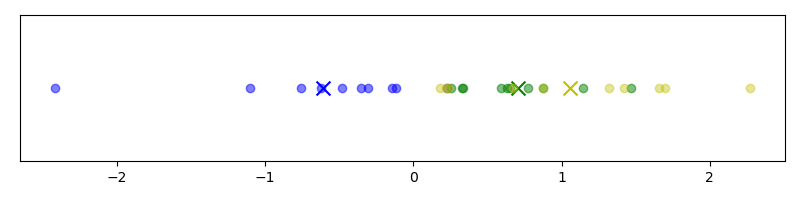
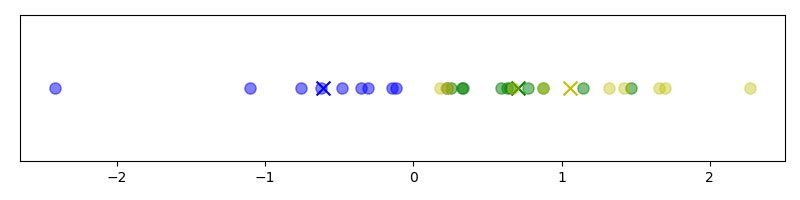
Update blog text

diff --git a/assets/code/t-digest/tdigest.py b/assets/code/t-digest/tdigest.py
@@ -384,13 +384,13 @@ def plot_weakly_ordered_cluster():
   # plt.subplot(3,1,2)
   plt.figure(figsize=(8,2))
   x = np.sort(np.random.randn(20))
-  plt.scatter(x[:10], np.zeros_like(x[:10]), color='b', alpha=0.5)
-  plt.scatter(x[10:], np.zeros_like(x[10:]), color='g', alpha=0.5)
+  plt.scatter(x[:10], np.zeros_like(x[:10]), color='b', alpha=0.5, s=65)
+  plt.scatter(x[10:], np.zeros_like(x[10:]), color='g', alpha=0.5, s=65)
   plt.scatter(np.mean(x[:10]), 0, color='b', s=100, marker="x")
   plt.scatter(np.mean(x[10:]), 0, color='g', s=100, marker="x")
 
   x = np.random.randn(10) + 1.5
-  plt.scatter(x, np.zeros_like(x), color='y', alpha=0.4)
+  plt.scatter(x, np.zeros_like(x), color='y', alpha=0.4, s=65)
   plt.scatter(np.mean(x), 0, color='y', s=100, marker="x")
   plt.yticks([])
 
@@ -462,8 +462,8 @@ if __name__ == "__main__":
   import imageio
 
   # clustering_with_scale_function_animation()
-  arbitrary_clustering_examples()
-  # plot_weakly_ordered_cluster()
+  # arbitrary_clustering_examples()
+  plot_weakly_ordered_cluster()
   # plot_scale_functions()
 
   # plot_cdf_examples()

diff --git a/_drafts/2021-05-09-tdigests.md b/_drafts/2021-05-09-tdigests.md
@@ -67,9 +67,9 @@ This strong ordering property can be observed visually in Figure 1. Note that al
     <figcaption>Figure 2</figcaption>
 </figure>
 
-One of the main contributions of the paper is a systematic way of choosing the boundaries of the clusters. The _t_-digest uses what the authors call a _scale function_ which maps a percentile to a real number, which they denote by $$k$$. This function is used to define a criteria for how many points should be allowed in each cluster (more on this later). 
+One of the main contributions of the paper is a systematic way of choosing the boundaries of the clusters. The _t_-digest uses what the authors call a _scale function_ which maps a percentile to a real number, which they denote by $$k$$. This function is used to define a criterion for how many points should be allowed in each cluster (more on this later). 
 
-When a cluster is created, the percentile of the first data point in the cluster is mapped to a $$k$$ value and saved. Points are continually added to the cluster (in sorted order) until enough points are added such that the $$k$$ value has increased by 1. At this point the cluster is considered complete and the centroid as well as its weight are stored and a new cluster is started.
+When a cluster is created, the percentile of the first data point in the cluster is mapped to a $$k$$ value and saved. Points are continually added to the cluster (in sorted order) until enough points are added such that the $$k$$ value has increased by 1. At this point, the cluster is considered complete and the centroid as well as its weight are stored and a new cluster is started.
 
 The cluster building process is shown in the animation in Figure 3. The crosses denote cluster centroids. Note how there are fewer points in the clusters at the extreme quantiles where the scale function is steeper.
 
@@ -145,11 +145,20 @@ Each scale function has a scale parameter $$\delta$$ which determines the number
 </figure>
 
 # Defining the _t_-digest
+The _t_-digest data structure is just a scale function along with a collection of cluster summaries (sorted by centroid). In order to be useful, the data structure also needs to support the following two operations: 
+
+1. Combine multiple existing _t_-digests into a single _t_-digest
+2. Compute arbitrary percentile estimates
+
+The following sections discuss each of these in more detail.
+
 ## Merging digests
-The previous section assumes that the data fits into memory (and there is enough memory to sort the data as well). In the scenario where each data file fits into memory, we can compute a _t_-digest per file. To get a single _t_-digest for the entire dataset, we can create a list of all the clusters from each _t_-digest and sort them by their centroids. The clusters are then merged in a greedy fashion by determining if the weight of the merged cluster (defined as the sum of the points in each cluster) leads to an increase in the $$k$$ value less than 1. If so, the two clusters can be replaced with a single merged one using the following code
+The preceeding sections outline the case when the data fits into memory (with some room left over to sort the data). In the scenario where each data file fits into memory, a single _t_-digest can be computed per file. To compute a single _t_-digest summarising the entire dataset, we can create a list of all the cluster summaries from each _t_-digest, sorted by their centroids. 
+
+The cluster summaries can then merged in a greedy fashion by determining if the weight of the merged cluster leads to an increase in the $$k$$ value less than 1. If so, the two clusters can be replaced with a single merged one using the following code
 
 {% highlight python %}
-def merge_clusters(c1, c2):
+def merge_cluster_summaries(c1, c2):
 
   w1 = c1.weight / (c1.weight + c2.weight)
   w2 = c2.weight / (c1.weight + c2.weight)
@@ -157,17 +166,21 @@ def merge_clusters(c1, c2):
   new_centroid = w1 * c1.centroid + w2 * c2.centroid
   new_weight = c1.weight + c2.weight
 
-  return Cluster(new_centroid, new_weight)
+  return ClusterSummary(new_centroid, new_weight)
 {% endhighlight %}
 
-For the most part, this algorithm is the same as the in-memory case where instead of adding points to a cluster, clusters are added to larger clusters. There is one important distinction however. 
+For the most part, this algorithm is the same as the in-memory case. The only difference is that instead of adding points to a cluster, clusters are added to larger clusters. 
 
-The clusters in-memory were guaranteed to be strongly ordered, by construction. That is, a cluster with a centroid to the left of another cluster's centroid must have every data point less than that of the other cluster. After merging centroids, this property no longer holds.  The consequence of this is error in the estimation of the percentiles.
+Recall that the cluster summaries created from in-memory data were guaranteed to be strongly ordered, by construction. That is, a cluster with a centroid to the left of another cluster's centroid must have every data point less than that of the other cluster. Unfortunately when merging cluster summaries, this property is no longer guaranteed to hold.  The consequence of this is error in the estimation of the percentiles.
 
 ## Percentile Estimation
-With the _t_-digest defined as well as methods for combining existing digests, the natural question is how to estimate an arbitrary percentile. In keeping only the centroids, along with the number of points, it is clear there is no way to get an exact answer to this question.
+With the _t_-digest defined as well as methods for combining existing digests, the natural question is, "how can a _t_-digeset be used to estimate an arbitrary percentile". In keeping only the centroids, along with the number of points, it is clear that there is no way to get an exact answer to this question.
 
-The assumption made for the purposes of computing percentiles from a _t_-digest is that the centroid is not just the mean of the data in the cluster but the _median_ as well. Stated another way, the assumption is that if there are $$N$$ data points in a cluster, $$N/2$$ will be to the left of the centroid and $$N/2$$ will be to the right. It is easy to find examples where this assumption is clearly false. In practice, the $$\delta$$ parameter can be tuned to create finer grained clusters so as to avoid badly skewed clusters. 
+The assumption made for the purposes of computing percentiles from a _t_-digest is that the centroid is not just the mean of the data in the cluster, but the _median_ as well. Stated another way, the assumption is that if there are $$N$$ data points in a cluster, $$N/2$$ will be to the left of the centroid and $$N/2$$ will be to the right. Of course, this assumption need not hold and it is easy to find examples where this assumption is clearly false. In practice, the $$\delta$$ parameter can be tuned to create finer grained clusters so as to avoid badly skewed clusters. 
+
+Given a percentile to compute, the sorted centroids are traversed in sorted order. As the list is iterated, half of the weight of the current cluster is added to the accumulated weight of all of the preceding clusters (due to the median assumption). Dividing this quantity by the total weight of all the clusters gives an approximate percentile. When the desired percentile is first exceeded, a linear interpolation is performed
+
+# make a gif showing 2d plot of percentile vs value with cluster centroids
 
 <figure>
     <a href="/assets/images/t-digest/approximate-cdf.png"><img src="/assets/images/t-digest/approximate-cdf.png"></a>
